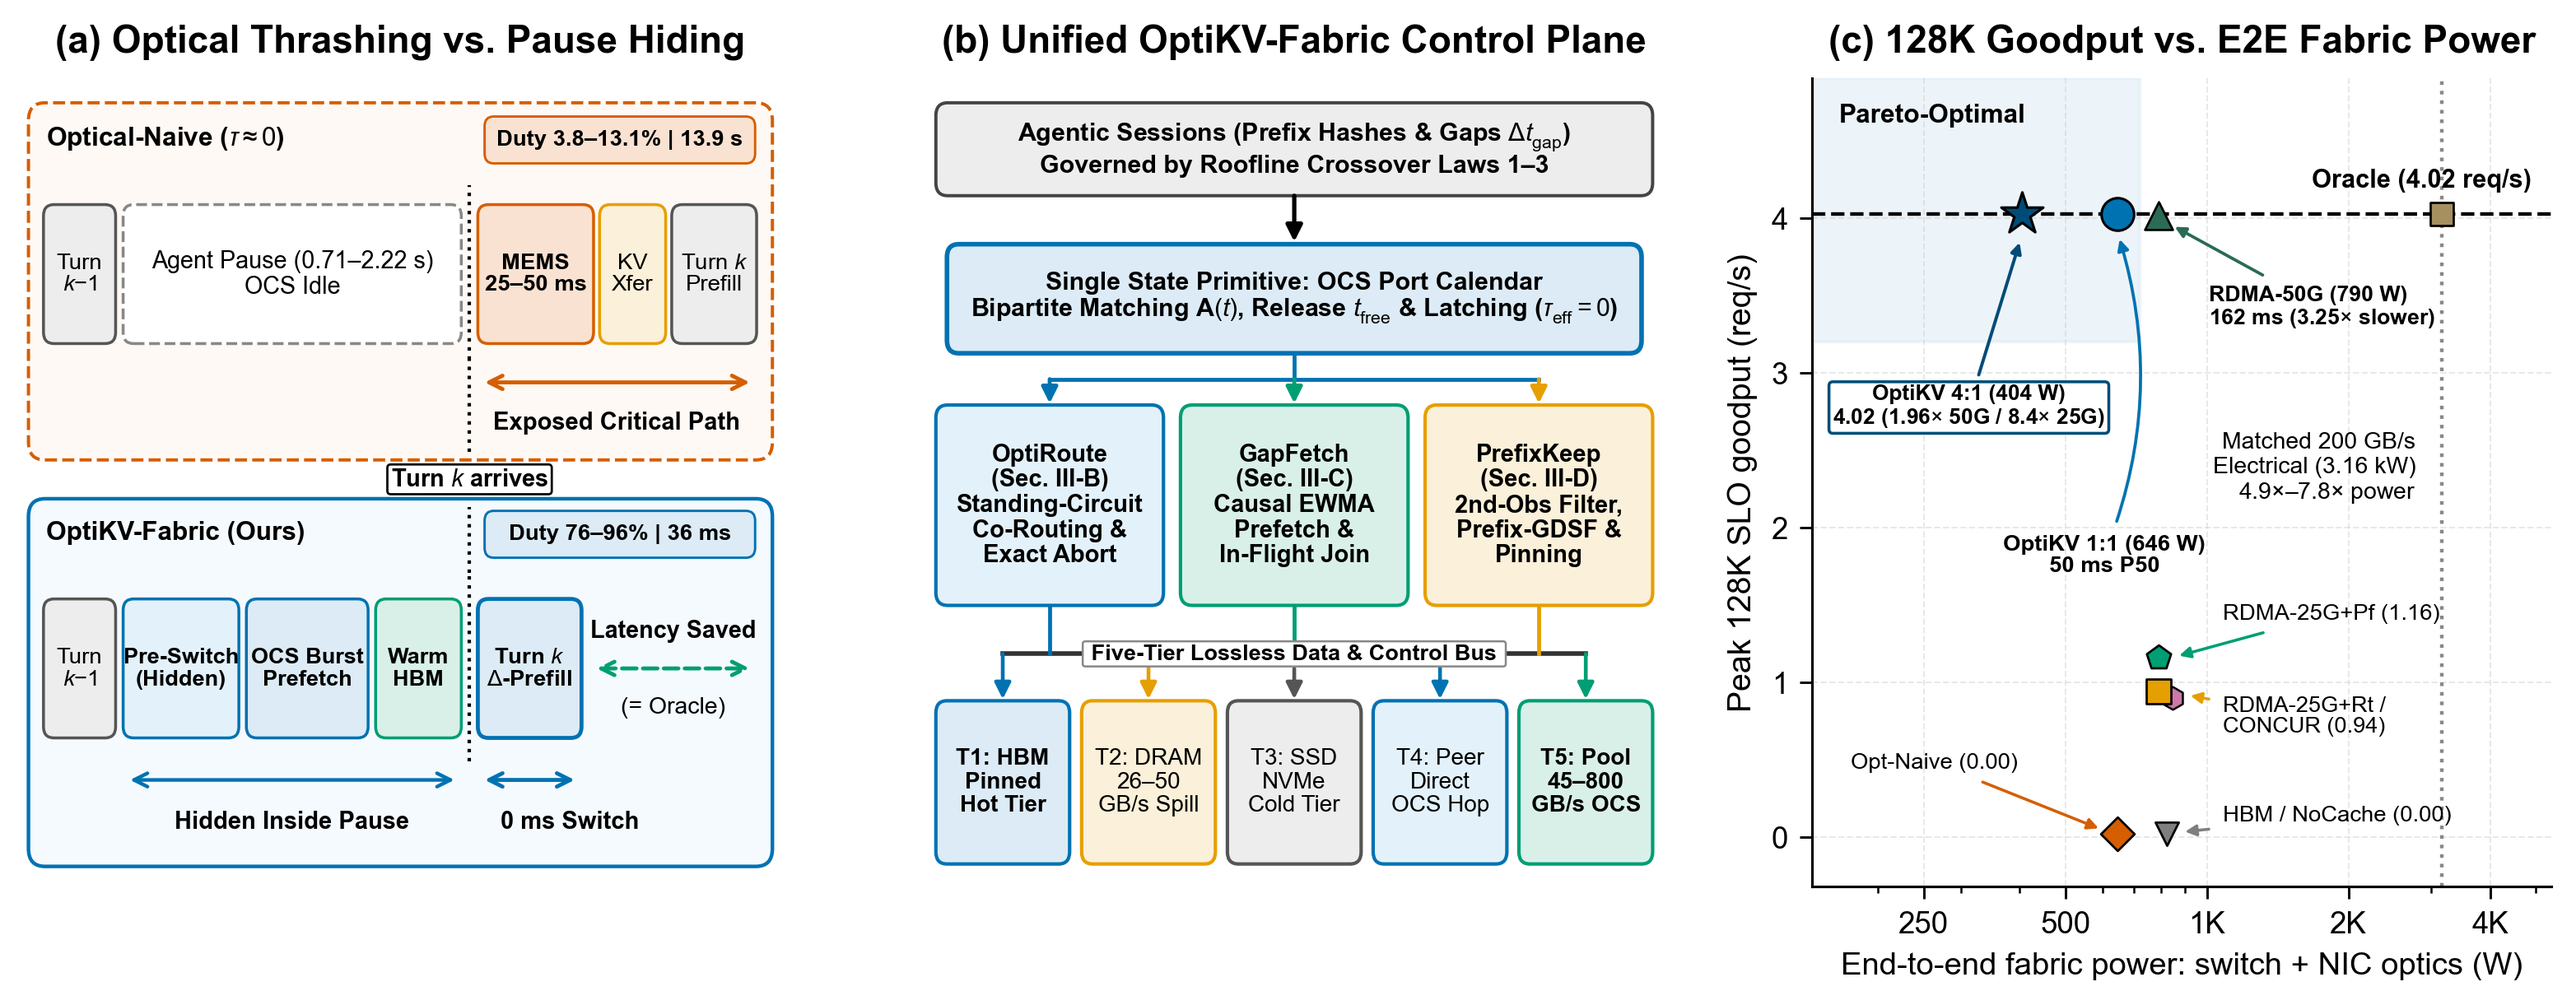
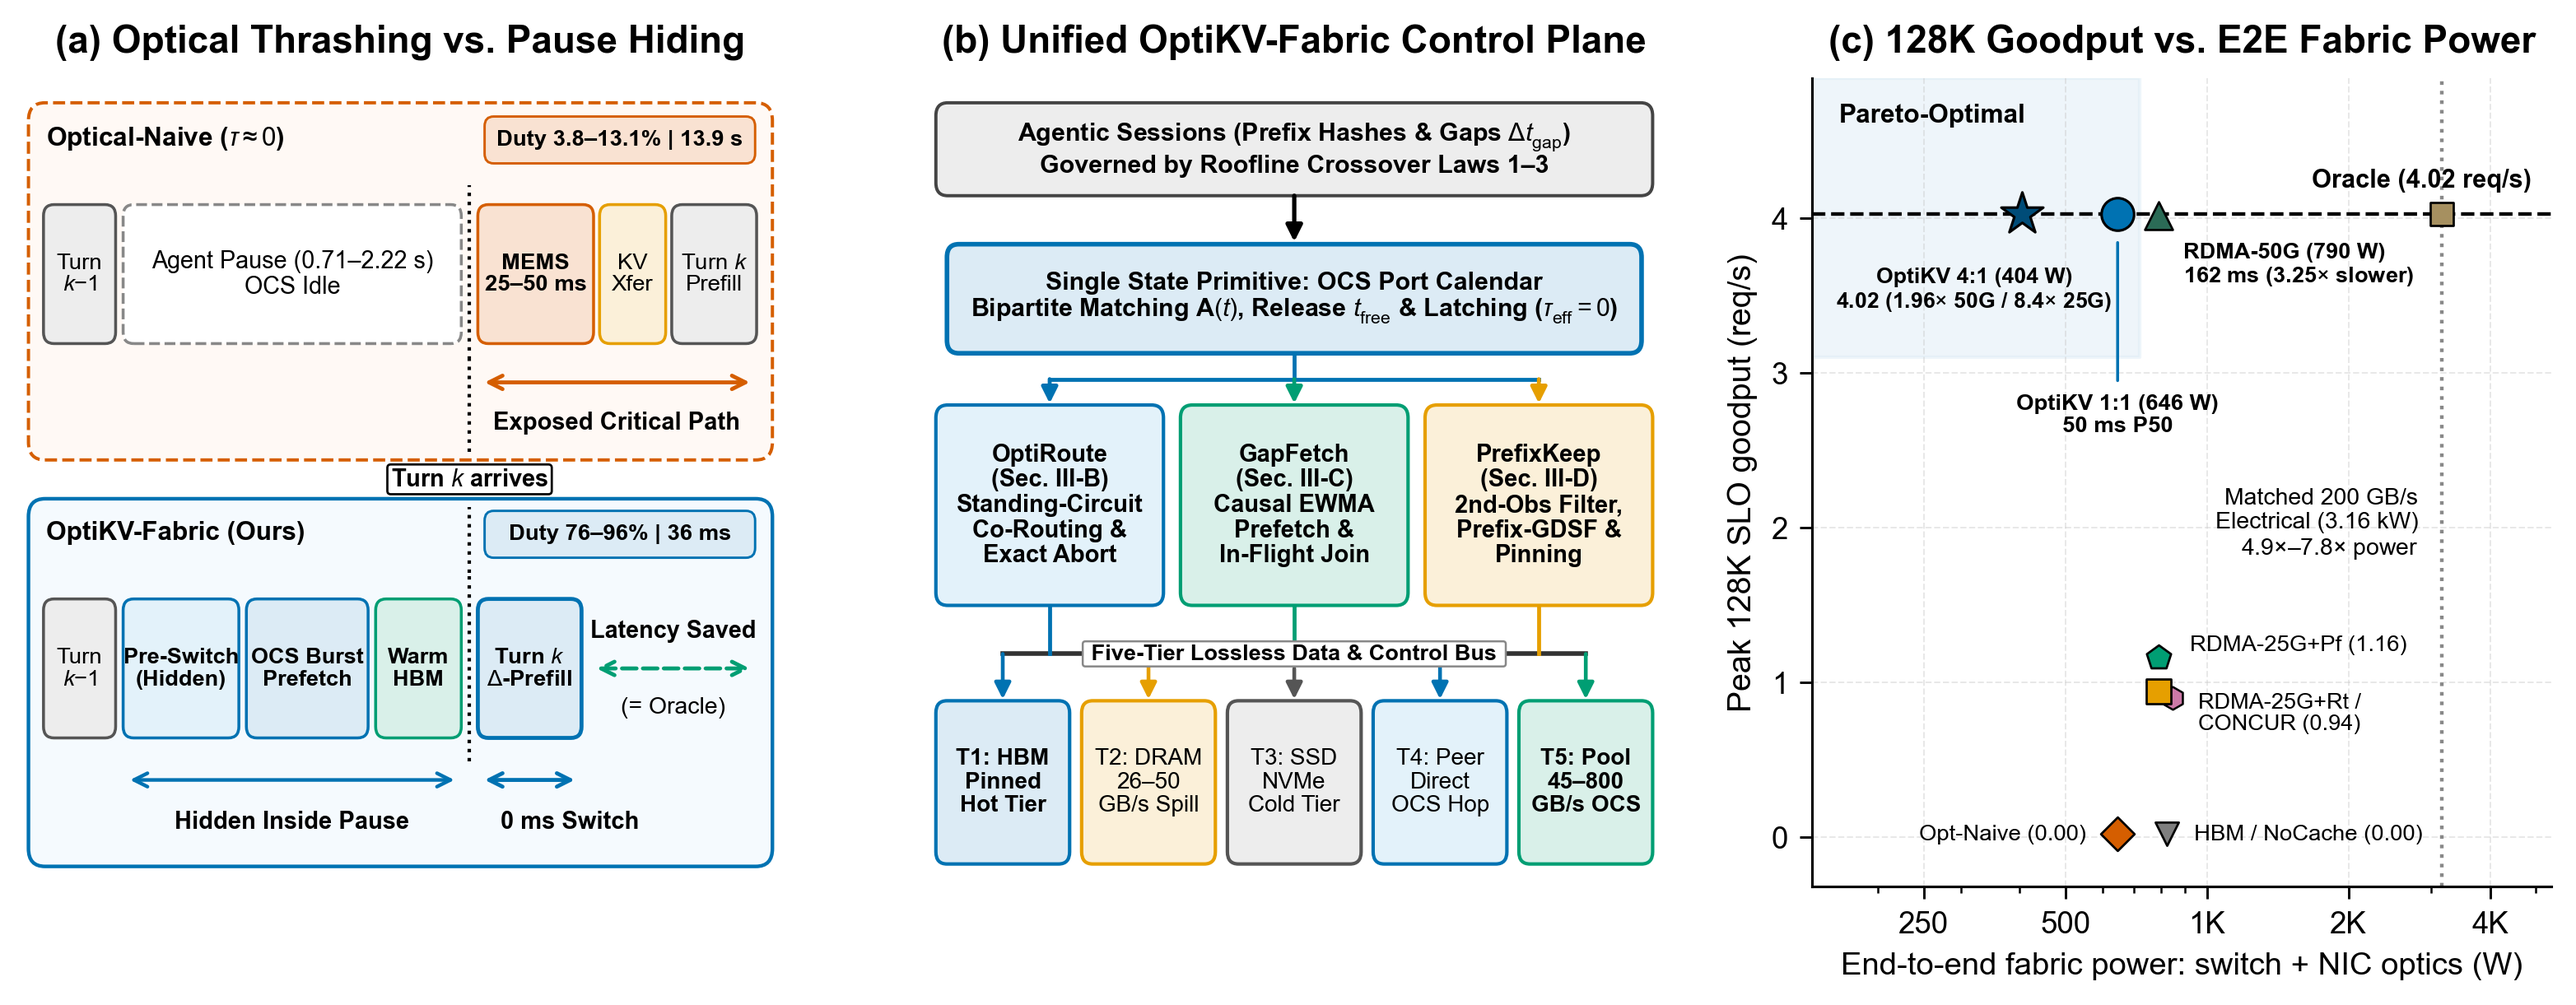
v3.1.2: Minimalist direct labeling on Fig. 1(c) (remove redundant arrows)

diff --git a/scripts/make_publication_figures.py b/scripts/make_publication_figures.py
@@ -407,7 +407,7 @@ def make_fig1_teaser() -> None:
     gp_rrt = float(peak.loc["rdma_routing"])
 
     # Soft Pareto-optimal region (upper-left)
-    ax2.fill_between([145.0, 720.0], [3.20, 3.20], [4.90, 4.90], color=P_BLUE, alpha=0.50, zorder=0)
+    ax2.fill_between([145.0, 720.0], [3.10, 3.10], [4.90, 4.90], color=P_BLUE, alpha=0.48, zorder=0)
     ax2.text(165.0, 4.74, "Pareto-Optimal", fontsize=7.6, fontweight="bold", color=C_BLACK, ha="left", va="top")
 
     # Oracle bound horizontal line
@@ -417,7 +417,7 @@ def make_fig1_teaser() -> None:
 
     # Matched 200 GB/s electrical reference vertical line
     ax2.axvline(PWR_ELEC_1600G_E2E, color="#888888", ls=":", lw=1.05, zorder=1)
-    ax2.text(PWR_ELEC_1600G_E2E * 0.88, 2.38, "Matched 200 GB/s\nElectrical (3.16 kW)\n4.9$\\times$–7.8$\\times$ power",
+    ax2.text(PWR_ELEC_1600G_E2E * 0.89, 2.02, "Matched 200 GB/s\nElectrical (3.16 kW)\n4.9$\\times$–7.8$\\times$ power",
              fontsize=6.8, color=C_BLACK, ha="right", va="center", linespacing=1.15)
 
     # Plot data points cleanly
@@ -443,36 +443,24 @@ def make_fig1_teaser() -> None:
     gpw_41 = (gp_opt41 / PWR_OCS_200G_41_E2E) / (gp_rrt / PWR_ELEC_400G_E2E)
     gpw_41_r50 = (gp_opt41 / PWR_OCS_200G_41_E2E) / (gp_r50 / PWR_ELEC_400G_E2E)
 
-    # ONLY ONE protagonist badge (OptiKV 4:1); ZERO line crossings, ZERO spine touches!
-    ax2.annotate(f"OptiKV 4:1 (404 W)\n{gp_opt41:.2f} ({gpw_41_r50:.2f}$\\times$ 50G / {gpw_41:.1f}$\\times$ 25G)",
-                 xy=(PWR_OCS_200G_41_E2E, gp_opt41 - 0.14), xytext=(312.0, 2.78),
-                 ha="center", va="center", fontsize=6.3, fontweight="bold", color=C_BLACK, linespacing=1.15,
-                 bbox=dict(boxstyle="round,pad=0.18", fc="#FFFFFF", ec=C_OPTIKV_41, lw=0.85),
-                 arrowprops=dict(arrowstyle="-|>", color=C_OPTIKV_41, lw=0.95))
+    # Clean direct placement (NO redundant arrows!); ONLY ONE thin straight leader line
+    # for the sandwiched middle dot OptiKV 1:1 (646 W) between 404 W and 790 W!
+    ax2.text(320.0, 3.68, f"OptiKV 4:1 (404 W)\n{gp_opt41:.2f} ({gpw_41_r50:.2f}$\\times$ 50G / {gpw_41:.1f}$\\times$ 25G)",
+             ha="center", va="top", fontsize=6.4, fontweight="bold", color=C_BLACK, linespacing=1.18)
     ax2.annotate("OptiKV 1:1 (646 W)\n50 ms P50",
-                 xy=(PWR_OCS_200G_11_E2E, gp_opt - 0.12), xytext=(605.0, 1.82),
-                 ha="center", va="center", fontsize=6.6, fontweight="bold", color=C_BLACK, linespacing=1.12,
-                 arrowprops=dict(arrowstyle="-|>", color=C_OPTIKV, lw=0.90, connectionstyle="arc3,rad=0.18"))
-    ax2.annotate("RDMA-50G (790 W)\n162 ms (3.25$\\times$ slower)",
-                 xy=(PWR_ELEC_400G_E2E * 1.05, gp_r50 - 0.05), xytext=(1010.0, 3.42),
-                 ha="left", va="center", fontsize=6.4, fontweight="bold", color=C_BLACK, linespacing=1.12,
-                 arrowprops=dict(arrowstyle="-|>", color="#2B6B56", lw=0.90))
-    ax2.annotate(f"RDMA-25G+Pf ({gp_rpf:.2f})",
-                 xy=(PWR_ELEC_400G_E2E * 1.07, gp_rpf), xytext=(1080.0, 1.44),
-                 ha="left", va="center", fontsize=6.6, color=C_BLACK,
-                 arrowprops=dict(arrowstyle="-|>", color=C_RDMA_PF, lw=0.85))
-    ax2.annotate(f"RDMA-25G+Rt /\nCONCUR ({gp_rrt:.2f})",
-                 xy=(PWR_ELEC_400G_E2E * 1.13, gp_rrt - 0.02), xytext=(1080.0, 0.78),
-                 ha="left", va="center", fontsize=6.5, color=C_BLACK, linespacing=1.08,
-                 arrowprops=dict(arrowstyle="-|>", color=C_RDMA, lw=0.85))
-    ax2.annotate("Opt-Naive (0.00)",
-                 xy=(PWR_OCS_200G_11_E2E * 0.94, 0.04), xytext=(175.0, 0.48),
-                 ha="left", va="center", fontsize=6.6, color=C_BLACK,
-                 arrowprops=dict(arrowstyle="-|>", color=C_NAIVE, lw=0.85))
-    ax2.annotate("HBM / NoCache (0.00)",
-                 xy=(PWR_ELEC_400G_E2E * 1.10, 0.03), xytext=(1080.0, 0.14),
-                 ha="left", va="center", fontsize=6.6, color=C_BLACK,
-                 arrowprops=dict(arrowstyle="-|>", color=C_HBM, lw=0.85))
+                 xy=(PWR_OCS_200G_11_E2E, gp_opt - 0.14), xytext=(PWR_OCS_200G_11_E2E, 2.86),
+                 ha="center", va="top", fontsize=6.6, fontweight="bold", color=C_BLACK, linespacing=1.15,
+                 arrowprops=dict(arrowstyle="-", color=C_OPTIKV, lw=0.85))
+    ax2.text(890.0, 3.84, "RDMA-50G (790 W)\n162 ms (3.25$\\times$ slower)",
+             ha="left", va="top", fontsize=6.5, fontweight="bold", color=C_BLACK, linespacing=1.15)
+    ax2.text(920.0, 1.24, f"RDMA-25G+Pf ({gp_rpf:.2f})",
+             ha="left", va="center", fontsize=6.6, color=C_BLACK)
+    ax2.text(960.0, 0.80, f"RDMA-25G+Rt /\nCONCUR ({gp_rrt:.2f})",
+             ha="left", va="center", fontsize=6.5, color=C_BLACK, linespacing=1.08)
+    ax2.text(555.0, 0.02, "Opt-Naive (0.00)",
+             ha="right", va="center", fontsize=6.6, color=C_BLACK)
+    ax2.text(940.0, 0.02, "HBM / NoCache (0.00)",
+             ha="left", va="center", fontsize=6.6, color=C_BLACK)
 
     ax2.set_xscale("log")
     ax2.set_xlim(145.0, 5400.0)
